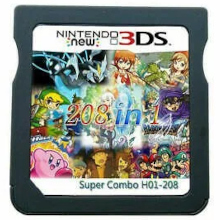
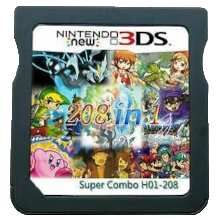
Remove backgrounds on some pictures

diff --git a/pages/ds-quick-start-guide.md b/pages/ds-quick-start-guide.md
@@ -29,7 +29,7 @@ Here are the best DS flashcarts currently available on the market. **If you're l
 
 |  <span id="ace3ds+">Ace3DS+ Clones</span>  | Images and Description |
 | ----------- | ----------- |
-| Original cart (not sold): <br> ![Ace3DS+ Original](../assets/images/ds_carts/ace3ds+.jpg) | Multiple variations of this cart exist, and they're all clones of the cart shown on the left. Here are the most common ones: <br> ![r4isdhc.hk Ace3DS+ clone](../assets/images/ds_carts/r4isdhc_hk.png)![r4isdhc.com.cn Ace3DS+ clone](../assets/images/ds_carts/r4isdhc_com_cn.png) ![Ace3DS+ Original](../assets/images/ds_carts/ace3ds-nolabel.png)|
+| Original cart (not sold): <br> ![Ace3DS+ Original](../assets/images/ds_carts/ace3ds+.png) | Multiple variations of this cart exist, and they're all clones of the cart shown on the left. Here are the most common ones: <br> ![r4isdhc.hk Ace3DS+ clone](../assets/images/ds_carts/r4isdhc_hk.png)![r4isdhc.com.cn Ace3DS+ clone](../assets/images/ds_carts/r4isdhc_com_cn.png) ![Ace3DS+ Original](../assets/images/ds_carts/ace3ds-nolabel.png)|
 | Cart Info | These carts are clones of the Ace3DS+ flashcart, compatible with all DS, DSi, and 3DS consoles, even unhacked ones on the latest firmware. These Ace3DS+ clones **do not** work with ntrboot - see the [Ace3DS X](#ace3ds-x) instead if this is a feature that you may need. <br><br> Important distinction: past listings of unlabeled Ace3DS+ clones exist, but we can no longer advise the purchase of these carts as they have started mixing in older versions of the Ace3DS+ which do not work on the latest firmware. More confusion arises from the fact that there are also timebomb clones that have very similar looking PCBs to the Ace3DS+ unlabeled carts. Please purchase the other labeled variants instead, specifically the two shown above. <br><br> Ace3DS+ clones are a good cheap option, however they have a few downsides. Due to iffy shell quality some report that it doesn't fit well into their consoles. It also runs an older version of Wood which lacks some anti-piracy patches, so to play certain games you will have to manually [patch their ROMs](https://gbatemp.net/download/retrogamefan-nds-rom-tool-v1-0_b1215.35735/), or use a cheat database and enable the Anti-Piracy bypass cheat before starting the game. <br><br> |
 | Obtaining and Setup | Searching "r4 wood" on AliExpress or "r4" on eBay usually returns this cart. A link is provided here, but this may not be the cheapest option as it's one of many listings: [https://www.aliexpress.com/item/1005003830660409.html](https://www.aliexpress.com/item/1005003830660409.html) <br><br> These carts are sold under a variety of brandings. The 2020 and later carts labelled as r4isdhc**.hk** and r4isdhc**.com.cn**, and "208-in-1" carts are  Ace3DS+ clones. Aside from the distinction note above, all of these carts perform identically regardless of branding. <br><br> Note that there exist similar carts looking carts that are **not** Ace3DS+ clones, but rather [timebomb clones](#timebomb_clone). These include carts labelled as r4isdhc**.com** and some unlabelled red PCB carts. The notable physical differences are: <ul><li> Ace3DS+ clones have either one or five holes in the PCB near the pins, the similar timebomb clones have two. (see above images) </li><ul><li> NOTE: It has been reported that the 5 hole PCB variant do not work on unmodded DSi/3DS consoles. This is mostly prominent on unlabeled Ace3DS+ clones, so do not purchase unlabeled carts.</li></ul><li> Ace3DS+ clones have smaller but deeper indents on the sides </li><li> Timebomb clones typically have an oval shaped indent in the plastic on the back, while Ace3DS+ clones don't.</li><li>Ace3DS+ clones always have red PCBs, timebomb clones often have yellow PCBs but are occasionally red as well. </li></ul> Kernel: [Ace3DS+ Wood R4 v1.62](https://flashcard-archive.ds-homebrew.com/Ace3DS+_R4iLS/Ace3DS+_R4iLS_Wood_R4_1.62.7z) |
 
@@ -37,7 +37,7 @@ Here are the best DS flashcarts currently available on the market. **If you're l
 
 | <span id="timebomb_clone">DSTTi Timebomb Clones</span> | Images and Description |
 | ----------- | ----------- |
-| ![r4i-sdhc.com 3DS RTS](../assets/images/ds_carts/r4i-sdhc_3ds_rts.jpg) | ![r4isdhc.com gold cart](../assets/images/ds_carts/r4isdhc_com_front.png) ![r4isdhc.com dual-core cart](../assets/images/ds_carts/r4isdhc_com_back.png) ![Unlabelled timebomb clone](../assets/images/ds_carts/timebomb_back.png)|
+| ![r4i-sdhc.com 3DS RTS](../assets/images/ds_carts/r4i-sdhc_3ds_rts.png) | ![r4isdhc.com gold cart](../assets/images/ds_carts/r4isdhc_com_front.png) ![r4isdhc.com dual-core cart](../assets/images/ds_carts/r4isdhc_com_back.png) ![Unlabelled timebomb clone](../assets/images/ds_carts/timebomb_back.png)|
 | Cart Info | These common carts are clones of the DSTTi, but with a timebomb in their official kernel. The timebomb is purely software, so switching to an alternative kernel will remove it. These carts are compatible with all DS, DSi, and 3DS consoles - even on the latest firmware - so they make a decent choice for unhacked DSi/3DS users, but the above [Ace3DS+ clones](#ace3ds+) are recommended instead if possible. <br><br> Most of these carts sold today are labelled as r4isdhc**.com** or r4i-sdhc.**com**, but others do exist. The timebomb causes the cart to stop loading into the menu after a certain date, but can be fixed by either switching to the YSMenu kernel or the de-timebombed stock kernel. Ace3DS+ clones are recommended instead due to the Wood kernel having higher compatibility with certain features such as Wii connectivity in DS games. <br><br> One notable advantage of these carts over DSOne or Ace3DS+ clones is that they support ntrboot for installing CFW on a 3DS. If you are looking for a cart with ntrboot support, then these carts are a decent choice. However, the Ace3DS X above is preferable for that purpose, since it has ntrboot preflashed and uses a better kernel when in DS mode. |
 | Obtaining and Setup | This is only recommended **if you cannot buy an Ace3DS X or Ace3DS+ clone**. Usually costs $10-15 USD. Searching "r4 gold pro" on AliExpress or eBay usually returns this cart. A link is provided here, but this may not be the cheapest option as it's one of many listings: [https://www.aliexpress.com/item/1005004530389743.html](https://www.aliexpress.com/item/1005004530389743.html) <ul><li> Kernel: [YSMenu](https://gbatemp.net/threads/retrogamefan-updates-releases.267243/) </li><li> Alternate Kernel: [De-Timebombed 1.85b r4i-sdhc kernel](https://github.com/DS-Homebrew/flashcard-archive/blob/archive/files/YSMenu/DEMON_common/r4i-sdhc.com_DEMON_1.85b-no-timebomb.zip)</li></ul> |
 
